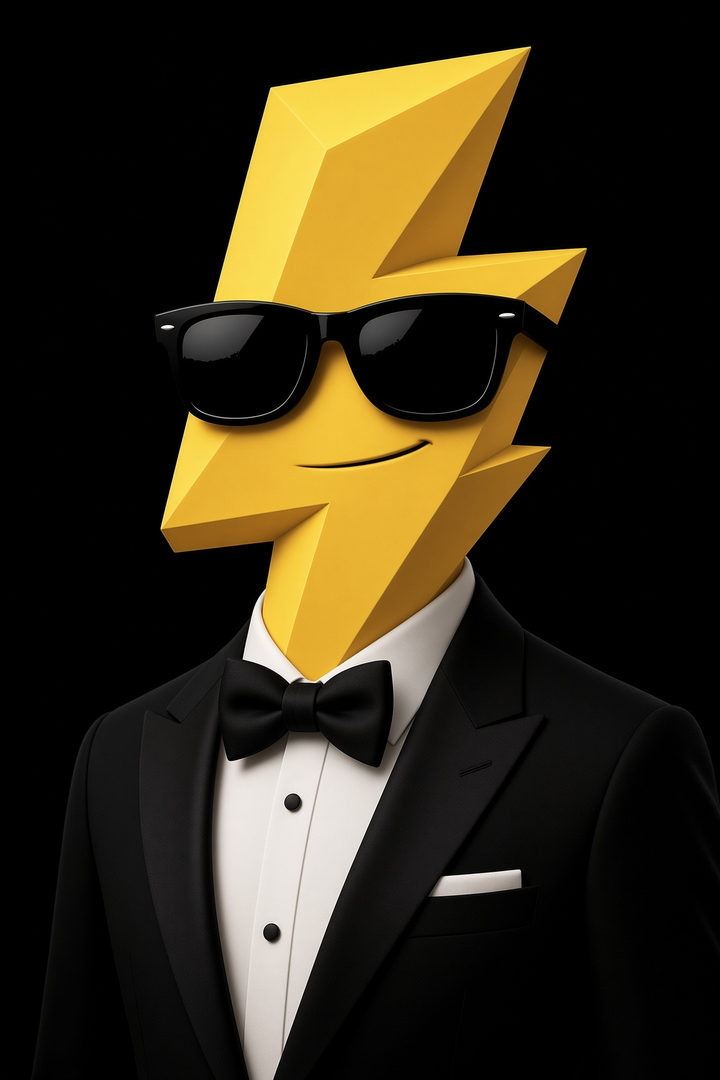
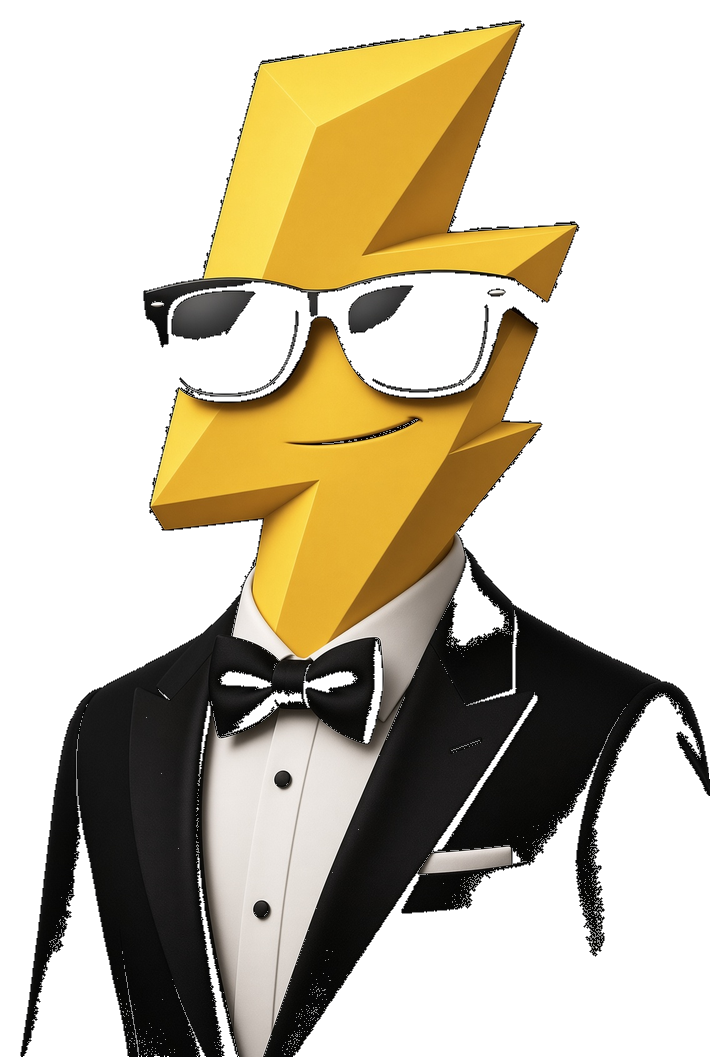
Ask Thunder: die-cut tuxedo Thunder — no rectangle

diff --git a/index.html b/index.html
@@ -18,10 +18,10 @@
   
   <!-- Web App Manifest -->
   <link rel="manifest" href="manifest.json" />
-  <link rel="preload" as="image" href="assets/logo@2x.png?v=20260819-nod3" />
-  <link rel="preload" as="image" href="assets/thunder-cool-fab@2x.png?v=20260819-nod3" />
+  <link rel="preload" as="image" href="assets/logo@2x.png?v=20260819-tux2" />
+  <link rel="preload" as="image" href="assets/thunder-cool-fab@2x.png?v=20260819-tux2" />
   
-  <link rel="stylesheet" href="css/styles.css?v=20260819-nod3" />
+  <link rel="stylesheet" href="css/styles.css?v=20260819-tux2" />
   <link rel="preconnect" href="https://fonts.googleapis.com" />
   <link rel="preconnect" href="https://fonts.gstatic.com" crossorigin />
   <link href="https://fonts.googleapis.com/css2?family=Bebas+Neue&family=Inter:wght@400;500;600;700;800&display=swap" rel="stylesheet" />
@@ -282,8 +282,8 @@
     </nav>
 
     <button id="thunder-fab" class="thunder-fab" aria-label="Ask Thunder">
-      <img src="assets/thunder-cool-fab.png?v=20260819-nod3"
-           srcset="assets/thunder-cool-fab.png?v=20260819-nod3 256w, assets/thunder-cool-fab@2x.png?v=20260819-nod3 512w"
+      <img src="assets/thunder-cool-fab.png?v=20260819-tux2"
+           srcset="assets/thunder-cool-fab.png?v=20260819-tux2 256w, assets/thunder-cool-fab@2x.png?v=20260819-tux2 512w"
            sizes="68px"
            alt="" class="thunder-fab-img" width="68" height="68" decoding="async" />
       <span class="thunder-fab-aura" aria-hidden="true"></span>
@@ -357,8 +357,8 @@
           <p id="tb-tour-body" class="tb-tour-body"></p>
         </div>
         <img id="tb-tour-host" class="tb-guide-thunder"
-             src="assets/thunder-tour-host.png?v=20260819-nod3"
-             srcset="assets/thunder-tour-host.png?v=20260819-nod3 400w, assets/thunder-tour-host@2x.png?v=20260819-nod3 800w"
+             src="assets/thunder-tour-host.png?v=20260819-tux2"
+             srcset="assets/thunder-tour-host.png?v=20260819-tux2 400w, assets/thunder-tour-host@2x.png?v=20260819-tux2 800w"
              sizes="(max-width: 480px) 38vw, 148px"
              alt="" />
       </div>
@@ -627,8 +627,8 @@
     <div class="modal-content thunder-content">
       <div class="modal-header thunder-header">
         <div class="thunder-title">
-          <img src="assets/thunder-cool-fab.png?v=20260819-nod3"
-               srcset="assets/thunder-cool-fab.png?v=20260819-nod3 256w, assets/thunder-cool-fab@2x.png?v=20260819-nod3 512w"
+          <img src="assets/thunder-cool-fab.png?v=20260819-tux2"
+               srcset="assets/thunder-cool-fab.png?v=20260819-tux2 256w, assets/thunder-cool-fab@2x.png?v=20260819-tux2 512w"
                sizes="28px"
                alt="" class="thunder-title-img" width="28" height="28" />
           Ask Thunder
@@ -637,7 +637,7 @@
       </div>
       <!-- OVERRIDE 20260818: tuxedo Thunder hero on Ask Thunder page only -->
       <div class="thunder-ask-hero" aria-hidden="true">
-        <img src="assets/thunder-bond-hero.png?v=20260819-tux1" alt="" class="thunder-ask-hero-img" width="280" height="360" decoding="async" />
+        <img src="assets/thunder-bond-hero.png?v=20260819-tux2" alt="" class="thunder-ask-hero-img" width="280" height="360" decoding="async" />
       </div>
       <div class="thunder-messages" id="thunder-messages">
         <div class="thunder-msg system">
@@ -717,9 +717,9 @@
   </div>
 
   <script src="https://cdn.jsdelivr.net/npm/@supabase/supabase-js@2"></script>
-  <script src="js/config.js?v=20260819-nod3"></script>
+  <script src="js/config.js?v=20260819-tux2"></script>
   <script src="js/qrcode.min.js?v=20260816LOCKED6"></script>
-  <script src="js/app.js?v=20260819-nod3"></script>
+  <script src="js/app.js?v=20260819-tux2"></script>
 </div>
 
 

diff --git a/css/styles.css b/css/styles.css
@@ -6680,3 +6680,17 @@ h1, h2, h3,
     text-shadow: none !important;
   }
 }
+
+/* Ask Thunder — die-cut tuxedo, no rectangle */
+.thunder-ask-hero {
+  background: transparent !important;
+  overflow: visible !important;
+}
+.thunder-ask-hero-img {
+  background: transparent !important;
+  border: none !important;
+  border-radius: 0 !important;
+  box-shadow: none !important;
+  mix-blend-mode: normal;
+  filter: drop-shadow(0 10px 20px rgba(0,0,0,0.55)) drop-shadow(0 0 14px rgba(254,241,5,0.22)) !important;
+}

diff --git a/js/config.js b/js/config.js
@@ -1,6 +1,6 @@
 window.TB_CONFIG = {
   // Bumped with each production zip so phones can detect a new build
-  APP_BUILD: '20260819-nod3',
+  APP_BUILD: '20260819-tux2',
   /* AUTHORITATIVE LINEAGE — do not package from mixed branches */
   SOURCE_PARENT: '20260818-p0-recovery1',
   REJECTED_ARCHIVES: ['20260818-whatsnext1', '20260818-header-safe1'],
